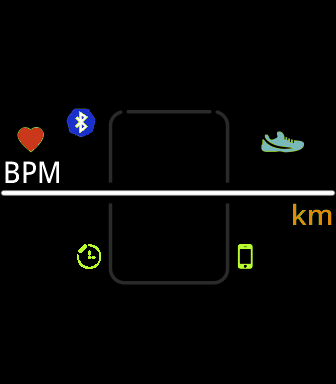
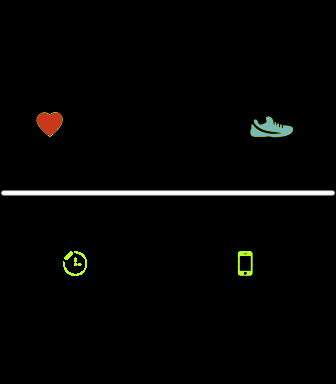
add oakeley's initial fixes

diff --git a/watchface/gts4mini/styles.js b/watchface/gts4mini/styles.js
@@ -22,7 +22,7 @@ let smallNumAccentArr = range(10).map((v) => {
 });
 
 export const DIGITAL_TIME_HOUR = {
-    hour_startX: px(120),
+    hour_startX: px(86),
     hour_startY: px(46),
     hour_zero: true,
     hour_space: 2,
@@ -31,7 +31,7 @@ export const DIGITAL_TIME_HOUR = {
 };
 
 export const DIGITAL_TIME_MINUTES = {
-    minute_startX: px(218),
+    minute_startX: px(176),
     minute_startY: px(46),
     minute_zero: true,
     minute_space: 2,
@@ -40,7 +40,7 @@ export const DIGITAL_TIME_MINUTES = {
 };
 
 export const TIME_AM_PM = {
-    am_x: px(298),
+    am_x: px(241),
     am_y: px(84),
     am_sc_path: img('bigNum/am.png'),
     am_en_path: img('bigNum/am.png'),
@@ -51,35 +51,35 @@ export const TIME_AM_PM = {
 }
 
 export const DIGITAL_TIME_SEPARATOR = {
-    x: px(203),
+    x: px(164),
     y: px(63),
     src: img( `bigNum/sp.png`)
 };
 
 export const ANALOG_TIME_SECONDS = {
-    second_centerX: px(208),
-    second_centerY: px(208),
-    second_posX: px(6),
-    second_posY: px(201),
+    second_centerX: px(168),
+    second_centerY: px(168),
+    second_posX: px(5),
+    second_posY: px(162),
     second_path: img("point/sec.png")
 };
 
 export const NORMAL_HEART_RATE_TEXT_IMG = {
-    x: px(88),
-    y: px(175),
-    w: px(53),
+    x: px(25),
+    y: px(141),
+    w: px(50),
     padding: false,
     h_space: 1,
-    align_h: hmUI.align.RIGHT,
+    align_h: hmUI.align.CENTER_H,
     type: hmUI.data_type.HEART,
     show_level: hmUI.show_level.ONLY_NORMAL,
     font_array: smallNumArr
 }
 
 export const NORMAL_STEPS_TEXT_IMG = {
-    x: px(276),
-    y: px(175),
-    w: px(117),
+    x: px(223),
+    y: px(141),
+    w: px(95),
     padding: false,
     h_space: 1,
     align_h: hmUI.align.CENTER_H,
@@ -89,7 +89,7 @@ export const NORMAL_STEPS_TEXT_IMG = {
 }
 
 export const NORMAL_DIST_TEXT_IMG = {
-    x: px(275),
+    x: px(222),
     y: px(218),
     w: px(78),
     padding: false,
@@ -110,8 +110,8 @@ export const WEEK_DAYS = {
 }
 
 export const DAYS_TEXT_IMG = {
-    day_startX: px(109),
-    day_startY: px(218),
+    day_startX: px(99),
+    day_startY: px(215),
     day_zero: 1,
     day_space: 1,
     day_align: hmUI.align.LEFT,
@@ -127,7 +127,7 @@ export const BATTERY_ARC = {
     w: px(390),
     h: px(390),
     start_angle: -253,
-    end_angle: -196,
+    end_angle: -253,
     color: Colors.accent,
     line_width: px(9),
     show_level: hmUI.show_level.ONLY_NORMAL,
@@ -139,19 +139,19 @@ export const PAI_ARC = {
     w: px(390),
     h: px(390),
     start_angle: 73,
-    end_angle: 17,
+    end_angle: 73,
     color: Colors.accent,
     line_width: px(9),
     show_level: hmUI.show_level.ONLY_NORMAL,
 }
 
 export const BG_VALUE_NO_DATA_TEXT = {
-    x: px(155),
-    y: px(142),
+    x: px(125),
+    y: px(132),
     w: px(108),
     h: px(50),
     color: Colors.white,
-    text_size: px(42),
+    text_size: px(34),
     align_h: hmUI.align.RIGHT,
     align_v: hmUI.align.CENTER_V,
     text_style: hmUI.text_style.NONE,
@@ -159,8 +159,8 @@ export const BG_VALUE_NO_DATA_TEXT = {
 };
 
 export const BG_VALUE_TEXT_IMG = {
-    x: px(155),
-    y: px(138),
+    x: px(125),
+    y: px(128),
     w: px(108),
     color: Colors.white,
     align_h: hmUI.align.CENTER_H,
@@ -172,8 +172,8 @@ export const BG_VALUE_TEXT_IMG = {
 };
 
 export const BG_TIME_TEXT = {
-    x: px(152),
-    y: px(258),
+    x: px(125),
+    y: px(208),
     w: px(114),
     h: px(33),
     color: Colors.defaultTransparent,
@@ -184,8 +184,8 @@ export const BG_TIME_TEXT = {
 };
 
 export const BG_DELTA_TEXT = {
-    x: px(197),
-    y: px(216),
+    x: px(159),
+    y: px(174),
     w: px(69),
     h: px(45),
     color: Colors.defaultTransparent,
@@ -213,8 +213,8 @@ export const BG_STALE_RECT = {
 };
 
 export const BG_STALE_IMG = {
-    x: px(155),
-    y: px(166),
+    x: px(125),
+    y: px(134),
     src: 'watchdrip/stale.png',
     visible: false,
 };
@@ -244,24 +244,24 @@ export const TREATMENT_TEXT = {
 };
 
 export const PHONE_BATTERY_TEXT = {
-    x: px(298),
-    y: px(255),
+    x: px(270),
+    y: px(250),
     w: px(71),
     h: px(27),
     color: Colors.white,
-    text_size: px(23),
+    text_size: px(17),
     align_h: hmUI.align.LEFT,
     align_v: hmUI.align.TOP,
     text_style: hmUI.text_style.NONE,
 };
 
 export const WATCH_BATTERY_TEXT = {
-    x: px(45),
-    y: px(255),
+    x: px(50),
+    y: px(250),
     w: px(71),
     h: px(27),
     color: Colors.white,
-    text_size: px(23),
+    text_size: px(17),
     align_h: hmUI.align.RIGHT,
     align_v: hmUI.align.TOP,
     text_style: hmUI.text_style.NONE,
@@ -294,8 +294,8 @@ export const IMG_STATUS_BT_DISCONNECTED = {
 };
 
 export const IMG_LOADING_PROGRESS = {
-    x: px(189),
-    y: px(255),
+    x: px(152),
+    y: px(206),
     src: 'watchdrip/progress.png',
     angle:0,
     center_x: 20,

diff --git a/watchface/entry/gts4mini/index.js b/watchface/entry/gts4mini/index.js
@@ -1,0 +1,1 @@
+import "../../gts4mini/index"
